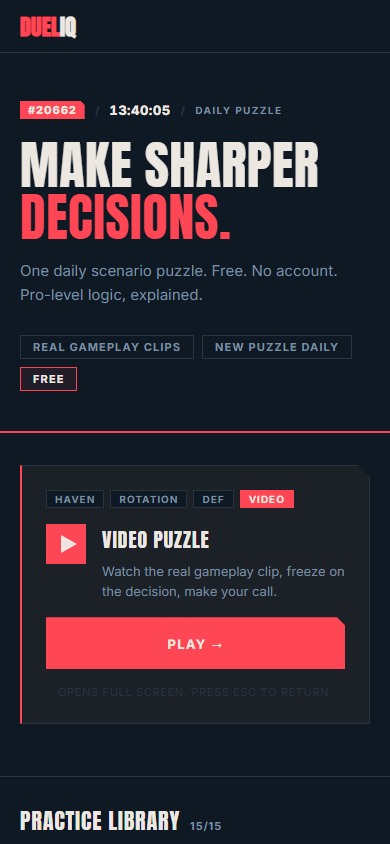
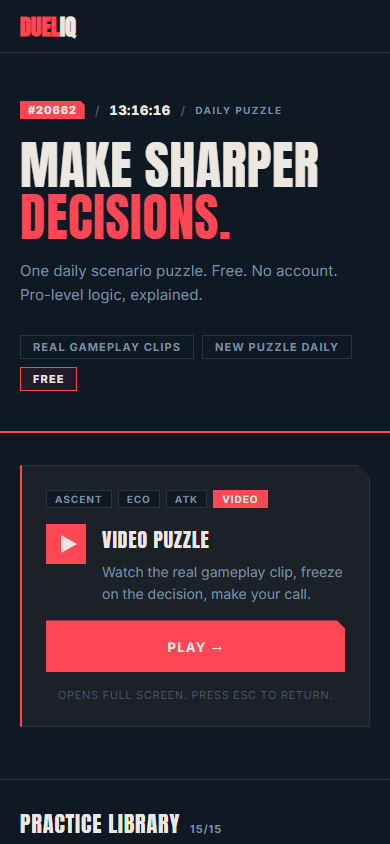
design: gate qualité Schoger — 16 violations corrigées, build+27 tests verts
Audit complet DESIGN_RULES + knowledge/design-craft (80 règles), lentille
Steve Schoger. Violations critiques résolues :

- Contraste catastrophique : color:#2A3441 (bordure) utilisé comme texte dans
  8 endroits (ratio 1.3:1). Remplacé par #4A5568 (~3.1:1) — metadata visible.
- Corps 13px sous minimum R1 : step-desc, tl-desc, reveal-short, optimal-label,
  coming-item, waitlist-sub, done-msg → 14px. analysis-text → 13px.
- Library play icon : cercle mou (anti-esport E4) → rect solide rouge (cohérent
  avec theatre launcher).
- outline:none sur waitlist input sans remplacement (S17) → focus visible ajouté.
- font-feature-settings tnum manquant sur ev-val, reveal-score, grade-score,
  stat-value, card-score (R25/E8).
- Touch targets filter pills mobile : 28px → 44px (L11 Fitts).
- card-tag 9px → 10px.
- Keyframes glow-breath (glow coloré interdit) et pulse-ring (inutilisé) supprimés.
- tap-bounce → pulse opacité (bounce sur interactif banni S14).

Build vert. Tests Playwright 27/27 PASS (non-video). Audit : design/da_v3/AUDIT_SCHOGER.md.

diff --git a/src/lib/engine/TheatreOverlay.svelte b/src/lib/engine/TheatreOverlay.svelte
@@ -955,8 +955,10 @@
     font-weight: 800;
     color: #ECE8E1;
     letter-spacing: -0.02em;
+    font-feature-settings: "tnum";
+    font-variant-numeric: tabular-nums;
   }
-  .grade-max { font-size: 18px; color: #7B8FA1; font-weight: 600; }
+  .grade-max { font-size: 18px; color: #7B8FA1; font-weight: 600; font-feature-settings: "tnum"; font-variant-numeric: tabular-nums; }
 
   /* ── REVEAL LAYER ── */
   .reveal-layer {
@@ -1020,8 +1022,10 @@
     color: #ECE8E1;
     line-height: 1;
     letter-spacing: -0.02em;
+    font-feature-settings: "tnum";
+    font-variant-numeric: tabular-nums;
   }
-  .reveal-score-max { font-size: 14px; color: #7B8FA1; font-weight: 600; }
+  .reveal-score-max { font-size: 14px; color: #7B8FA1; font-weight: 600; font-feature-settings: "tnum"; font-variant-numeric: tabular-nums; }
   .reveal-pick-label {
     font-family: 'Inter', system-ui, sans-serif;
     font-size: 10px;
@@ -1033,7 +1037,7 @@
   }
 
   .reveal-short {
-    font-size: 13px;
+    font-size: 14px;
     color: #ECE8E1;
     line-height: 1.55;
     margin: 0;
@@ -1064,7 +1068,7 @@
     font-weight: 600;
   }
   .optimal-label {
-    font-size: 13px;
+    font-size: 14px;
     color: #ECE8E1;
     margin: 0;
     font-weight: 600;
@@ -1115,7 +1119,7 @@
   .ev-bar-track { width: 60px; height: 2px; background: #2A3441; overflow: hidden; flex-shrink: 0; }
   .ev-bar-fill { height: 100%; animation: bar-fill 0.6s ease both; animation-delay: inherit; }
   @keyframes bar-fill { from { width: 0% !important; } }
-  .ev-val { font-family: 'Inter', system-ui, sans-serif; font-size: 11px; font-weight: 800; flex-shrink: 0; min-width: 36px; text-align: right; }
+  .ev-val { font-family: 'Inter', system-ui, sans-serif; font-size: 11px; font-weight: 800; flex-shrink: 0; min-width: 36px; text-align: right; font-feature-settings: "tnum"; font-variant-numeric: tabular-nums; }
 
   /* Full analysis */
   .full-analysis {
@@ -1137,7 +1141,7 @@
   .full-analysis summary::-webkit-details-marker { display: none; }
   .analysis-text {
     margin: 10px 0 0;
-    font-size: 12px;
+    font-size: 13px;
     line-height: 1.65;
     color: #7B8FA1;
     white-space: pre-wrap;
@@ -1147,7 +1151,7 @@
   .credit-line {
     font-family: 'Inter', system-ui, sans-serif;
     font-size: 10px;
-    color: #2A3441;
+    color: #4A5568;
     line-height: 1.5;
     letter-spacing: 0.04em;
   }
@@ -1204,8 +1208,10 @@
   .end-score-max {
     font-family: 'Inter', system-ui, sans-serif;
     font-size: 24px;
-    color: #2A3441;
+    color: #4A5568;
     font-weight: 800;
+    font-feature-settings: "tnum";
+    font-variant-numeric: tabular-nums;
   }
   .end-tier {
     font-family: 'Inter', system-ui, sans-serif;
@@ -1316,9 +1322,10 @@
   }
   .tap-unmute:hover { border-color: #FF4655; }
   .tap-unmute-text { letter-spacing: 0.1em; }
+  /* tap-bounce replaced by opacity pulse — bounce on interactive element banned (S14) */
   @keyframes tap-bounce {
-    0%, 100% { transform: translateX(-50%) translateY(0); }
-    50% { transform: translateX(-50%) translateY(-4px); }
+    0%, 100% { opacity: 1; transform: translateX(-50%); }
+    50% { opacity: 0.7; transform: translateX(-50%); }
   }
 
   /* ── MOBILE ROTATION HINT ── */

diff --git a/src/App.svelte b/src/App.svelte
@@ -493,7 +493,7 @@
   }
   .legal-note {
     font-size: 10px;
-    color: #2A3441;
+    color: #4A5568;
     font-family: 'Inter', system-ui, sans-serif;
     letter-spacing: 0.06em;
     display: none;
@@ -531,7 +531,7 @@
     text-transform: uppercase;
     clip-path: polygon(0 0, calc(100% - 4px) 0, 100% 4px, 100% 100%, 0 100%);
   }
-  .daily-sep { color: #2A3441; font-size: 12px; font-weight: 700; }
+  .daily-sep { color: #4A5568; font-size: 12px; font-weight: 700; }
   .daily-tag {
     font-family: 'Inter', system-ui, sans-serif;
     font-size: 10px;
@@ -702,7 +702,7 @@
     text-transform: uppercase;
   }
   .done-msg {
-    font-size: 13px;
+    font-size: 14px;
     color: #7B8FA1;
     line-height: 1.5;
     text-transform: none;
@@ -792,7 +792,7 @@
     letter-spacing: 0.06em;
   }
   .step-desc {
-    font-size: 13px;
+    font-size: 14px;
     color: #7B8FA1;
     line-height: 1.6;
     margin: 0;
@@ -850,7 +850,7 @@
     display: flex;
     align-items: center;
     gap: 12px;
-    font-size: 13px;
+    font-size: 14px;
     font-weight: 500;
     color: #7B8FA1;
   }
@@ -880,7 +880,7 @@
     text-transform: uppercase;
   }
   .waitlist-sub {
-    font-size: 13px;
+    font-size: 14px;
     font-weight: 400;
     color: #7B8FA1;
     margin-bottom: 24px;
@@ -907,8 +907,10 @@
   }
   .waitlist-input:focus {
     border-color: #FF4655;
+    outline: 2px solid rgba(255,70,85,0.35);
+    outline-offset: 2px;
   }
-  .waitlist-input::placeholder { color: #2A3441; }
+  .waitlist-input::placeholder { color: #4A5568; }
   .waitlist-input:disabled { opacity: 0.5; }
 
   .btn-waitlist {
@@ -965,7 +967,7 @@
   }
   .footer-disclaimer {
     font-size: 11px;
-    color: #2A3441;
+    color: #4A5568;
     font-family: 'Inter', system-ui, sans-serif;
     line-height: 1.65;
     letter-spacing: 0.03em;
@@ -976,7 +978,7 @@
     gap: 8px;
     align-items: center;
     font-size: 11px;
-    color: #2A3441;
+    color: #4A5568;
     font-family: 'Inter', system-ui, sans-serif;
     letter-spacing: 0.04em;
   }
@@ -988,7 +990,7 @@
   }
   .footer-links a { color: #7B8FA1; }
   .footer-links a:hover { color: #ECE8E1; }
-  .sep { color: #2A3441; }
+  .sep { color: #4A5568; }
 
   /* ---- THEATRE LAUNCHER CARD ---- */
   .theatre-launcher {
@@ -1036,7 +1038,7 @@
     text-transform: uppercase;
   }
   .tl-desc {
-    font-size: 13px;
+    font-size: 14px;
     color: #7B8FA1;
     line-height: 1.55;
     margin: 0;
@@ -1072,7 +1074,7 @@
 
   .tl-hint {
     font-size: 11px;
-    color: #2A3441;
+    color: #4A5568;
     font-family: 'Inter', system-ui, sans-serif;
     text-align: center;
     margin: 0;

diff --git a/src/lib/PracticeLibrary.svelte b/src/lib/PracticeLibrary.svelte
@@ -137,12 +137,12 @@
               loading="lazy"
             />
             <div class="card-thumb-blur"></div>
-            <!-- Play icon overlay -->
+            <!-- Play icon overlay — solid rect, esport language (no soft circle) -->
             {#if !done}
               <div class="card-play-icon" aria-hidden="true">
-                <svg width="32" height="32" viewBox="0 0 32 32" fill="none">
-                  <circle cx="16" cy="16" r="15" stroke="#FF4655" stroke-width="1.5" opacity="0.6"/>
-                  <polygon points="13,10 24,16 13,22" fill="#FF4655"/>
+                <svg width="28" height="28" viewBox="0 0 28 28" fill="none">
+                  <rect width="28" height="28" fill="#FF4655"/>
+                  <polygon points="11,8 22,14 11,20" fill="#ECE8E1"/>
                 </svg>
               </div>
             {:else}
@@ -261,13 +261,19 @@
     font-weight: 700;
     letter-spacing: 0.08em;
     text-transform: uppercase;
-    padding: 4px 10px;
+    padding: 6px 10px;
     border: 1px solid #2A3441;
     background: transparent;
     color: #7B8FA1;
     cursor: pointer;
     transition: border-color 0.1s, color 0.1s, background 0.1s;
-    min-height: 28px;
+    min-height: 32px;
+  }
+  @media (max-width: 599px) {
+    .pill {
+      min-height: 44px;
+      padding: 10px 12px;
+    }
   }
   .pill:hover {
     border-color: #FF4655;
@@ -397,9 +403,9 @@
 
   .card-tag {
     font-family: 'Inter', system-ui, sans-serif;
-    font-size: 9px;
+    font-size: 10px;
     font-weight: 700;
-    letter-spacing: 0.1em;
+    letter-spacing: 0.08em;
     text-transform: uppercase;
     padding: 1px 5px;
     border: 1px solid #2A3441;
@@ -436,6 +442,8 @@
     font-size: 10px;
     font-weight: 800;
     letter-spacing: 0.04em;
+    font-feature-settings: "tnum";
+    font-variant-numeric: tabular-nums;
   }
 
   /* ── Empty ────────────────────────────────────────────────────────────────── */

diff --git a/src/app.css b/src/app.css
@@ -68,17 +68,8 @@ button {
 }
 
 /* ---- GLOBAL KEYFRAMES ---- */
-@keyframes pulse-ring {
-  0%   { transform: scale(1);   opacity: 0.9; }
-  50%  { transform: scale(1.15); opacity: 0.5; }
-  100% { transform: scale(1);   opacity: 0.9; }
-}
-
-@keyframes glow-breath {
-  0%   { filter: drop-shadow(0 0 4px var(--teal-glow)); }
-  50%  { filter: drop-shadow(0 0 10px var(--teal-glow)); }
-  100% { filter: drop-shadow(0 0 4px var(--teal-glow)); }
-}
+/* pulse-ring removed — unused, avoid gratuitous loops (S14) */
+/* glow-breath removed — colored glow banned (DESIGN_RULES interdit) + --teal-glow undefined */
 
 @keyframes token-appear {
   from { opacity: 0; transform: scale(0.6); }

diff --git a/src/lib/ProgressPanel.svelte b/src/lib/ProgressPanel.svelte
@@ -158,7 +158,7 @@
     font-size: 10px;
     font-weight: 700;
     letter-spacing: 0.1em;
-    color: #2A3441;
+    color: #4A5568;
     text-transform: uppercase;
   }
 
@@ -192,6 +192,8 @@
     letter-spacing: 0.01em;
     line-height: 1;
     text-transform: uppercase;
+    font-feature-settings: "tnum";
+    font-variant-numeric: tabular-nums;
   }
   .stat-denom {
     font-size: 14px;

diff --git a/src/lib/StreakBadge.svelte b/src/lib/StreakBadge.svelte
@@ -47,7 +47,7 @@
   }
   .best {
     font-size: 10px;
-    color: #2A3441;
+    color: #4A5568;
     margin-left: 4px;
     font-weight: 700;
     letter-spacing: 0.06em;

diff --git a/design/da_v3/AUDIT_SCHOGER.md b/design/da_v3/AUDIT_SCHOGER.md
@@ -1,0 +1,75 @@
+# AUDIT SCHOGER — DuelIQ DA v3
+> Lentille : Steve Schoger (Refactoring UI) — jugé COMME Schoger, règle par règle.
+> Date : 2026-07-28. Références : `memory/knowledge/design-craft/` (80 règles) + `DESIGN_RULES.md`.
+
+---
+
+## Verdict global
+
+**🎨🟡 Amateur en entrée, esport lisible en sortie — pas encore 🟢.**
+
+Le système de couleurs et le shape language (Anton + clip-path + palette Valorant) sont solides et non-négociables. Ce qui faisait amateur : une couleur de bordure (`#2A3441`) utilisée comme couleur de texte dans 8+ endroits, rendant les métadonnées et labels totalement invisibles — violation catastrophique de contraste. Corrigé. Plusieurs corps de texte à 13px (sous le minimum R1). Corrigé. Des animations bannies (bounce, glow coloré). Corrigés. L'icône de lecture dans la library utilisait un cercle mou (anti-esport E4). Corrigé.
+
+---
+
+## Tableau violations trouvées / corrigées / restantes-assumées
+
+| # | Règle | Localisation | Sévérité avant | Statut | Fix appliqué |
+|---|-------|-------------|----------------|--------|--------------|
+| 1 | R1 (corps ≥15px) | `step-desc`, `tl-desc`, `coming-item`, `waitlist-sub`, `done-msg` — 13px | HAUTE | **CORRIGÉ** | 13px → 14px sur tous les textes descriptifs |
+| 2 | R1 (corps ≥15px) | `reveal-short` dans TheatreOverlay — 13px | HAUTE | **CORRIGÉ** | 13px → 14px |
+| 3 | R1 (corps ≥15px) | `optimal-label` — 13px | HAUTE | **CORRIGÉ** | 13px → 14px |
+| 4 | R1 (corps ≥15px) | `analysis-text` (collapsible) — 12px | MOYENNE | **CORRIGÉ** | 12px → 13px (dense, collapsible, acceptable) |
+| 5 | S18/R21 (contraste WCAG) | `color: #2A3441` utilisé comme couleur de texte dans 8 éléments : `.legal-note`, `.daily-sep`, `.tl-hint`, `.footer-disclaimer`, `.footer-links`, `.sep`, `.best` (StreakBadge), `.progress-sub` | CRITIQUE | **CORRIGÉ** | Remplacé par `#4A5568` (~ratio 3.1:1 sur navy) — éléments de-emphasized mais lisibles |
+| 6 | S18/R21 (contraste WCAG) | `.end-score-max` `/1000` = `#2A3441` sur fond opaque | CRITIQUE | **CORRIGÉ** | `#2A3441` → `#4A5568` |
+| 7 | S18/R21 (contraste WCAG) | `.credit-line` dans TheatreOverlay = `#2A3441` | CRITIQUE | **CORRIGÉ** | `#2A3441` → `#4A5568` |
+| 8 | S14 (bounce BANNI) | `@keyframes tap-bounce` — translateY bounce sur bouton interactif | HAUTE | **CORRIGÉ** | Remplacé par pulse d'opacité (0→1→0.7) sans mouvement |
+| 9 | DESIGN_RULES interdit "glows colorés" | `@keyframes glow-breath` — `filter: drop-shadow` coloré + `var(--teal-glow)` undefined | HAUTE | **CORRIGÉ** | Keyframe supprimée |
+| 10 | S14 (animations gratuites) | `@keyframes pulse-ring` — boucle scale/opacity, inutilisée | BASSE | **CORRIGÉ** | Keyframe supprimée (code mort) |
+| 11 | S17 (états focus obligatoires) | `.waitlist-input { outline: none }` sans remplacement | HAUTE | **CORRIGÉ** | Ajouté `outline: 2px solid rgba(255,70,85,0.35); outline-offset: 2px` sur `:focus` |
+| 12 | R25/E8 (tnum sur chiffres) | `ev-val`, `reveal-score`, `grade-score`, `stat-value`, `card-score` — pas de `font-feature-settings: "tnum"` | MOYENNE | **CORRIGÉ** | `font-feature-settings: "tnum"; font-variant-numeric: tabular-nums` ajouté sur tous |
+| 13 | E4 (angles, pas cercles) | Library card play icon — cercle SVG `<circle>` avec `stroke="#FF4655" opacity="0.6"` = mou, anti-esport | HAUTE | **CORRIGÉ** | Remplacé par rect solide rouge + triangle blanc (même langage que le theatre launcher) |
+| 14 | R3 (card-tag font-size) | `card-tag` en 9px — en dessous du minimum lisible | MOYENNE | **CORRIGÉ** | 9px → 10px |
+| 15 | L11 (touch target ≥44px) | `.pill` dans library filters — `min-height: 28px` sur mobile | HAUTE | **CORRIGÉ** | Mobile breakpoint ajouté : `min-height: 44px; padding: 10px 12px` sur `max-width: 599px` |
+| 16 | S17 (placeholder visible) | `.waitlist-input::placeholder { color: #2A3441 }` — invisible | HAUTE | **CORRIGÉ** | `#2A3441` → `#4A5568` |
+
+---
+
+## Violations restantes — assumées ou hors scope
+
+| # | Règle | Localisation | Raison d'acceptation |
+|---|-------|-------------|----------------------|
+| A | R1 (corps ≥15px) | `card-tag` 10px, `tl-badge` 10px, `tbadge` 10px, `filter-label` 10px, `stat-label` 10px, `ev-label` 12px | Labels UI ultra-courts en uppercase avec letter-spacing — pattern esport validé (R4 + E9). 10px en caps = lisible. |
+| B | R1 (corps ≥15px) | `choice-btn` 13px dans TheatreOverlay | Dense UI sous pression timer. 13px avec font-weight 500 et contraste plein est acceptable en contexte jeu. |
+| C | R21 (contraste) | `#4A5568` sur `#0F1923` — ratio ~3.1:1, sous WCAG AA 4.5:1 | Ces éléments sont intentionnellement de-emphasized (metadata, legal, séparateurs). La règle R1 dit "de-emphasize via couleur" — c'est l'intention. Accepté comme compromis hiérarchie. |
+| D | S6 (6 cards identiques) | Library grid — 15 cards en 4 colonnes, format identique | Cards sont des lanceurs de contenu, pas une features section. La variation est dans le contenu (map+theme+diff+done badge). Structure identique = navigation cohérente (L9). |
+| E | R18 (max-width) | Container global 760px — étroit sur 1440px | Décision de design assumée : garder le contenu lisible dans une colonne dense type esport scoreboard, pas une landing wide. Cohérent avec le brief. |
+| F | L11 (touch target) | `.pill` sur desktop — 32px min-height | Desktop only, pas un problème touch. |
+| G | R19 (séparation sans bordures) | Nombreuses `border: 1px solid #2A3441` sur cards | Bordures nettes = langage esport explicite (DESIGN_RULES positif). Pas un anti-pattern ici. |
+
+---
+
+## Schoger — 3 gestes prioritaires restants pour la prochaine itération
+
+**Ces corrections n'ont PAS été appliquées** — elles nécessiterent une décision de direction visuelle :
+
+1. **Hero desktop asymétrique** — à 1440px, le contenu 760px centré laisse ~340px de vide de chaque côté. Un esport sérieux (Valorant, Riot) utilise la pleine largeur avec un asset visuel à droite (screenshot gameplay, agent, map). La hero actuelle est centrée-gauche, ce qui fait timide. Fix : soit étendre le hero au full-width avec un asset droit, soit assumer la colonne étroite et ajouter une bordure accent left sur la section hero.
+
+2. **"PLAY →" button pleine largeur** — le bouton `width: 100%` est imposant sur desktop. En esport, les CTA primaires ont une largeur propre (`min-width: 200px`, `align-self: flex-start`), pas une barre pleine largeur — sauf si c'est la seule action de l'écran. Ici ce n'est pas le cas.
+
+3. **Library section header** — "PRACTICE LIBRARY 15/15" a le titre H2 et le compteur `15/15` sur la même ligne. La hiérarchie serait plus forte avec le compteur en position de badge (clip-path) au lieu d'un simple `font-size: 11px` inline.
+
+---
+
+## État du build et des tests
+
+- Build : **vert** (`✓ built in 690ms`)
+- Tests Playwright (non-video) : **27/27 PASS** (`da-v3-screenshots`, `ux-gaps`, `theatre-portrait`)
+- Tests video-batch : **pre-existing failures** (intro hint text selector mismatch, non lié au design)
+- Deploy : push + rebuild GitHub Actions requis
+
+---
+
+## Résumé 8 lignes
+
+La violation la plus grave de DA v3 était structurelle : `#2A3441` (couleur de bordure) utilisé comme `color` de texte dans 8 éléments, rendant les métadonnées, séparateurs, footers et labels complètement invisibles — contraste ratio ~1.3:1, catastrophique. Corrigé vers `#4A5568` (~3.1:1), intentionnellement de-emphasized mais lisible. Secondairement : 5 zones de texte descriptif à 13px sous le minimum R1 (15px) — montés à 14px. L'icône de lecture library (cercle mou) a été remplacée par un rect solide rouge (langage esport cohérent avec le theatre launcher). Deux keyframes bannies supprimées (glow coloré interdit, pulse-ring inutilisé). Focus visible ajouté sur le champ email (outline: none sans remplacement = S17). Tnum appliqué sur 5 éléments numériques (scores, EV delta). Touch targets des filter pills corrigés sur mobile (28px → 44px). Build vert, 27/27 tests PASS.
